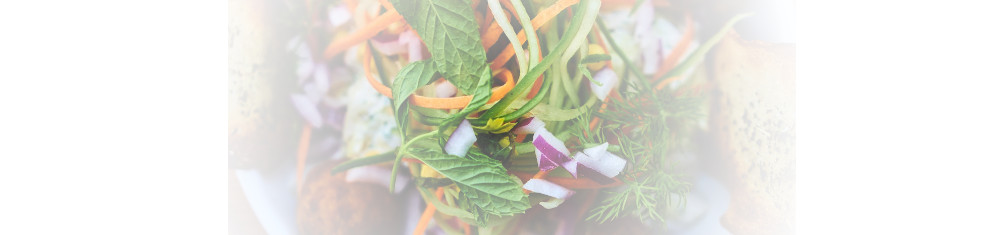
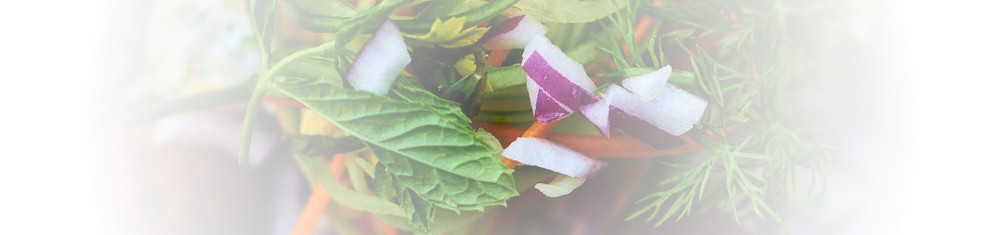
ajustes background

diff --git a/horta.html b/horta.html
@@ -10,7 +10,7 @@
     <style>
 
 body {
-            background-image: url('imagens/horta2.jpg');
+            background-image: url('imagens/hortafundo.jpg');
             background-repeat: no-repeat;
             background-position: center top;
             background-attachment: scroll;

diff --git a/galeriahorta.html b/galeriahorta.html
@@ -103,7 +103,7 @@ body {
     <header>
         <h1>EITA</h1>
         <h3>Estação de Inovações em Tecnologias Ambientais e Sociais</h3>
-        <hr>
+       
         <nav>
   
             <div class="nav">
